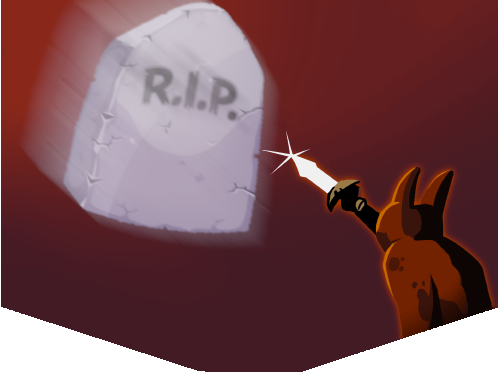
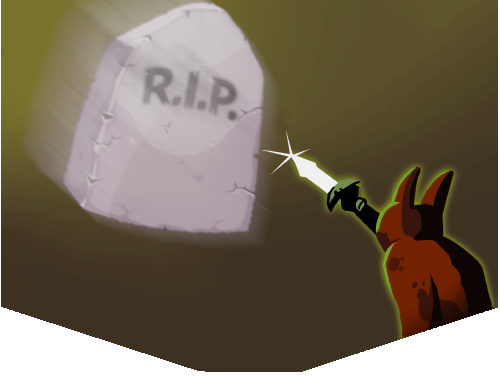
Fixed most remaining issues, have done final recoloring.

diff --git a/ShadeMod/src/main/java/shade/cards/OneIsEnough.java b/ShadeMod/src/main/java/shade/cards/OneIsEnough.java
@@ -14,9 +14,11 @@ import com.megacrit.cardcrawl.orbs.EmptyOrbSlot;
 import shade.ShadeMod;
 import shade.actions.FingerOfDeathAction;
 import shade.actions.OneIsEnoughAction;
+import shade.actions.OneIsEnoughAction2;
 import shade.actions.UndeadSpawnAction;
 import shade.characters.ShadeCharacter;
 import shade.patches.AbstractCardEnum;
+import shade.orbs.SpawnedUndead;
 
 public class OneIsEnough extends AbstractShadeCard{
 	
@@ -46,6 +48,9 @@ public class OneIsEnough extends AbstractShadeCard{
 		super(ID,NAME,ShadeMod.getResourcePath(IMG_PATH),COST,DESCRIPTION,TYPE,AbstractCardEnum.SHADE,RARITY,TARGET);
 		this.baseDamage = 11;
 		this.damage = this.baseDamage;
+		
+		this.baseBlock=5;
+		this.block=this.baseBlock;
 	}
 	
 	public AbstractCard makeCopy()
@@ -57,21 +62,40 @@ public class OneIsEnough extends AbstractShadeCard{
 	    if (!this.upgraded)
 	    {
 		      upgradeName();
-		      this.rawDescription=UPGRADED_DESCRIPTION;
-		      initializeDescription();
+		      upgradeBlock(2);
+		      upgradeDamage(4);
 	    }
 		
 	}
 	@Override
 	public void use(AbstractPlayer p, AbstractMonster m) {
-		if(p.orbs.get(ShadeCharacter.INDEX_SKELETON) instanceof EmptyOrbSlot
-				&& p.orbs.get(ShadeCharacter.INDEX_ZOMBIE) instanceof EmptyOrbSlot
-				&& p.orbs.get(ShadeCharacter.INDEX_WRAITH) instanceof EmptyOrbSlot) {
-			AbstractDungeon.actionManager.addToBottom(new OneIsEnoughAction(this.energyOnUse, this.upgraded, p, m, this.damage,this.damageTypeForTurn, this.freeToPlayOnce));
+		int count=0;
+		if(!(p.orbs.get(ShadeCharacter.INDEX_SKELETON) instanceof EmptyOrbSlot)) {
+			count += ( (SpawnedUndead) p.orbs.get(ShadeCharacter.INDEX_SKELETON)).count;
+		}
+		if(!(p.orbs.get(ShadeCharacter.INDEX_ZOMBIE) instanceof EmptyOrbSlot)) {
+			count += ( (SpawnedUndead) p.orbs.get(ShadeCharacter.INDEX_ZOMBIE)).count;
+		}
+		if(!(p.orbs.get(ShadeCharacter.INDEX_WRAITH) instanceof EmptyOrbSlot)) {
+			count += ( (SpawnedUndead) p.orbs.get(ShadeCharacter.INDEX_WRAITH)).count;
+		}
+			
+		
+		if(count==0) {
+			AbstractDungeon.actionManager.addToBottom(new OneIsEnoughAction(this.energyOnUse, p, m, this.damage,this.damageTypeForTurn, this.freeToPlayOnce));
 		}
 		else
 		{
-			AbstractDungeon.player.energy.use(this.energyOnUse);
+			if(!(p.orbs.get(ShadeCharacter.INDEX_SKELETON) instanceof EmptyOrbSlot)) {
+				( (SpawnedUndead) p.orbs.get(ShadeCharacter.INDEX_SKELETON)).remove(count);
+			}
+			if(!(p.orbs.get(ShadeCharacter.INDEX_ZOMBIE) instanceof EmptyOrbSlot)) {
+				( (SpawnedUndead) p.orbs.get(ShadeCharacter.INDEX_ZOMBIE)).remove(count);
+			}
+			if(!(p.orbs.get(ShadeCharacter.INDEX_WRAITH) instanceof EmptyOrbSlot)) {
+				( (SpawnedUndead) p.orbs.get(ShadeCharacter.INDEX_WRAITH)).remove(count);
+			}
+			AbstractDungeon.actionManager.addToBottom(new OneIsEnoughAction2(this.energyOnUse, this.block, p, count, this.freeToPlayOnce));
 		}
 		
 	}

diff --git a/ShadeMod/src/main/java/shade/actions/OneIsEnoughAction2.java b/ShadeMod/src/main/java/shade/actions/OneIsEnoughAction2.java
@@ -2,30 +2,30 @@ package shade.actions;
 
 import com.megacrit.cardcrawl.actions.AbstractGameAction;
 import com.megacrit.cardcrawl.actions.common.DamageAction;
+import com.megacrit.cardcrawl.actions.common.GainBlockAction;
+import com.megacrit.cardcrawl.actions.common.GainEnergyAction;
 import com.megacrit.cardcrawl.cards.DamageInfo;
 import com.megacrit.cardcrawl.characters.AbstractPlayer;
 import com.megacrit.cardcrawl.dungeons.AbstractDungeon;
 import com.megacrit.cardcrawl.monsters.AbstractMonster;
 
 
-public class OneIsEnoughAction extends AbstractGameAction {
+public class OneIsEnoughAction2 extends AbstractGameAction {
 
 	private int effect;
-	private int damage;
+	private int count;
 	private boolean freeToPlayOnce;
 	private int energyOnUse;
 	private AbstractPlayer p;
-	private AbstractMonster m;
-	private DamageInfo.DamageType damageTypeForTurn;
+	private int block;
 	  
-	public OneIsEnoughAction(int energy, AbstractPlayer p, AbstractMonster m, int damage, DamageInfo.DamageType damageTypeForTurn, boolean freeToPlayOnce)
+	public OneIsEnoughAction2(int energy, int block, AbstractPlayer p, int count, boolean freeToPlayOnce)
 	{
 		this.energyOnUse = energy;
 		this.effect=energy;
+		this.count=count;
+		this.block=block;
 		this.p=p;
-		this.m=m;
-		this.damageTypeForTurn=damageTypeForTurn;
-		this.damage=damage;
 		this.freeToPlayOnce=freeToPlayOnce;
 	}
 	@Override
@@ -33,18 +33,16 @@ public class OneIsEnoughAction extends AbstractGameAction {
 		
 		if(AbstractDungeon.player.hasRelic("Chemical X"))
 		{
-			this.effect += 2;
+			effect += 2;
 			AbstractDungeon.player.getRelic("Chemical X").flash();
 		}
 		
-		for(int i = 0; i < effect; i++)
-		{
-			AbstractDungeon.actionManager.addToTop(new DamageAction(this.m, new DamageInfo(this.p, this.damage, this.damageTypeForTurn), AbstractGameAction.AttackEffect.SLASH_DIAGONAL));
-		}
 		
+		AbstractDungeon.actionManager.addToBottom(new GainBlockAction(p, p, count*block));
+
 		
 		if(!this.freeToPlayOnce) {
-			AbstractDungeon.player.energy.use(this.energyOnUse);
+			AbstractDungeon.player.energy.use(energyOnUse);
 		}
 		
 		this.isDone = true;

diff --git a/ShadeMod/src/main/java/shade/ShadeMod.java b/ShadeMod/src/main/java/shade/ShadeMod.java
@@ -33,6 +33,7 @@ import org.apache.logging.log4j.LogManager;
 import org.apache.logging.log4j.Logger;
 import shade.characters.ShadeCharacter;
 import shade.orbs.EmptySlot;
+import shade.actions.RefreshUndeadPower;
 import shade.cards.*;
 import shade.relics.*;
 import shade.ui.ShadeTipTracker;
@@ -383,15 +384,7 @@ public class ShadeMod implements PostInitializeSubscriber,
 		if (AbstractDungeon.player.chosenClass == ShadeEnum.SHADE) {
 			if(target == AbstractDungeon.player)
 			{
-				for(int i = 0; i <= ShadeCharacter.INDEX_MAX; i++)
-				{
-					AbstractOrb u = AbstractDungeon.player.orbs.get(i);
-					if (!(u instanceof EmptyOrbSlot))
-					{
-						u.applyFocus();
-						u.updateDescription();
-					}
-				}
+				AbstractDungeon.actionManager.addToBottom(new RefreshUndeadPower());
 			}
 		}
 	}

diff --git a/ShadeMod/src/main/java/shade/actions/PlayRandomFromExhaustAction.java b/ShadeMod/src/main/java/shade/actions/PlayRandomFromExhaustAction.java
@@ -48,7 +48,8 @@ public class PlayRandomFromExhaustAction extends AbstractGameAction
 		
 		for (Iterator<AbstractCard> ex = this.p.exhaustPile.group.iterator(); ex.hasNext(); ) {
 			AbstractCard derp = (AbstractCard)ex.next();
-			if (!derp.type.equals(this.type) || derp.color.equals(AbstractCard.CardColor.COLORLESS) || derp.color.equals(AbstractCard.CardColor.CURSE)) {
+			// Exclude a card if it's the wrong type, if it's a status, if it's a curse, or if you can't play it.
+			if (!derp.type.equals(this.type) || derp.color.equals(AbstractCard.CardColor.COLORLESS) || derp.color.equals(AbstractCard.CardColor.CURSE) || !derp.canUse(p, AbstractDungeon.getMonsters().getRandomMonster(true))) {
 				this.misfits.add(derp);
 				ex.remove();
 			} 

diff --git a/ShadeMod/src/main/java/shade/cards/Trample.java b/ShadeMod/src/main/java/shade/cards/Trample.java
@@ -54,6 +54,22 @@ public class Trample
     this.baseDamage = 0;
     this.damage=this.baseDamage;
   }
+  
+  public void applyPowers() {
+		this.baseDamage = 0;
+		if (AbstractDungeon.player.orbs.get(ShadeCharacter.INDEX_ZOMBIE) instanceof SpawnedUndead) {
+			this.baseDamage += this.magicNumber*((SpawnedUndead) AbstractDungeon.player.orbs.get(ShadeCharacter.INDEX_ZOMBIE)).count;
+		}
+		this.damage = this.baseDamage;
+		
+	    super.applyPowers();
+	    
+	    if (this.baseDamage > 0) {
+	    	this.rawDescription = UPGRADED_DESCRIPTION + cardStrings.EXTENDED_DESCRIPTION[0];
+	    	initializeDescription();
+	    }
+	    
+	  }
 
   
 	public void use(AbstractPlayer p, AbstractMonster m) {

diff --git a/ShadeMod/src/main/java/shade/actions/ExhaustFromHandAction.java b/ShadeMod/src/main/java/shade/actions/ExhaustFromHandAction.java
@@ -140,6 +140,7 @@ public class ExhaustFromHandAction extends AbstractGameAction {
         if(this.shadeCard=="Excise") {
       	  if (c.type == AbstractCard.CardType.STATUS || c.type == AbstractCard.CardType.CURSE) {
       		    AbstractDungeon.actionManager.addToBottom(new GainEnergyAction(1));
+      		    AbstractDungeon.actionManager.addToBottom(new DrawCardAction(this.p,1));
       	  }
         }
       }
